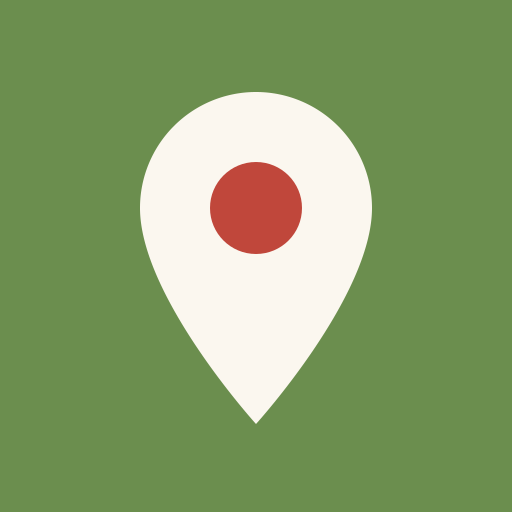
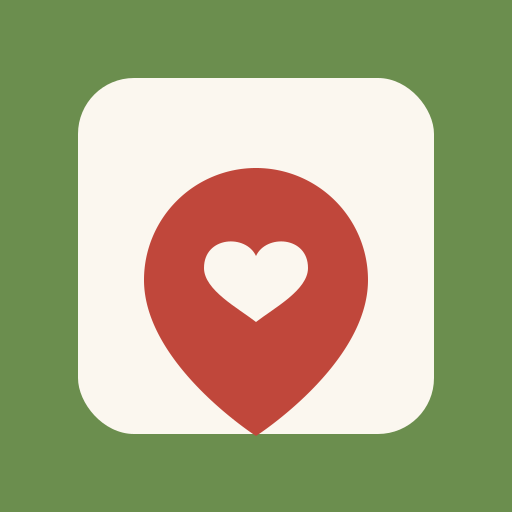
update

diff --git a/index.html b/index.html
@@ -2,118 +2,282 @@
 <html lang="en">
 <head>
 <meta charset="utf-8">
-<meta name="viewport" content="width=device-width, initial-scale=1, viewport-fit=cover">
-<title>Location Test</title>
+<meta name="viewport" content="width=device-width, initial-scale=1, viewport-fit=cover, maximum-scale=1">
+<title>The Hunt</title>
 <link rel="manifest" href="manifest.webmanifest">
 <meta name="theme-color" content="#6B8E4E">
 <meta name="mobile-web-app-capable" content="yes">
 <meta name="apple-mobile-web-app-capable" content="yes">
-<meta name="apple-mobile-web-app-title" content="Location Test">
+<meta name="apple-mobile-web-app-title" content="The Hunt">
 <link rel="apple-touch-icon" href="apple-touch-icon.png">
 <link rel="preconnect" href="https://fonts.googleapis.com">
 <link rel="preconnect" href="https://fonts.gstatic.com" crossorigin>
 <link href="https://fonts.googleapis.com/css2?family=Fraunces:opsz,wght@9..144,700;9..144,900&family=Nunito:wght@600;700;800&display=swap" rel="stylesheet">
 <style>
-  :root{--paper:#FBF7EF;--ink:#2E3A2E;--leaf:#6B8E4E;--berry:#C0473B;--line:#E3DCC9}
-  *{box-sizing:border-box;-webkit-tap-highlight-color:transparent}
+  :root{--paper:#FBF7EF;--ink:#2E3A2E;--leaf:#6B8E4E;--berry:#C0473B;--line:#E3DCC9;
+        --grey:#C4BDB0;--yellow:#C9A14A;--green:#6B8E4E;--white:#fff}
+  *{box-sizing:border-box;-webkit-tap-highlight-color:transparent;-webkit-user-select:none;user-select:none}
   html,body{margin:0;min-height:100%;background:var(--paper);color:var(--ink);
     font-family:"Nunito",system-ui,sans-serif}
-  body{display:flex;flex-direction:column;align-items:center;justify-content:center;
-    min-height:100dvh;gap:1.1rem;padding:1.5rem
-      calc(1.5rem + env(safe-area-inset-right)) calc(1.5rem + env(safe-area-inset-bottom)) calc(1.5rem + env(safe-area-inset-left));text-align:center}
-  h1{margin:0;font-family:"Fraunces",serif;font-weight:900;font-size:1.7rem}
-  .target{font-size:.8rem;opacity:.7;line-height:1.4;max-width:22rem}
-  .target b{font-variant-numeric:tabular-nums}
-  button{font:800 1.15rem "Nunito";color:var(--paper);background:var(--leaf);border:none;
-    border-radius:16px;padding:1.1rem 1.6rem;cursor:pointer;width:100%;max-width:22rem}
-  button:active{transform:scale(.98)}
-  button:disabled{opacity:.6}
-  .result{width:100%;max-width:22rem;min-height:8rem;background:#fff;border:1.5px solid var(--line);
-    border-radius:16px;padding:1.2rem;display:flex;flex-direction:column;gap:.5rem;justify-content:center}
-  .verdict{font-family:"Fraunces",serif;font-weight:900;font-size:1.5rem;line-height:1.1}
-  .verdict.yes{color:var(--leaf)} .verdict.no{color:var(--berry)} .verdict.warn{color:#B7791F}
-  .dist{font-size:2.6rem;font-weight:800;font-variant-numeric:tabular-nums;line-height:1}
-  .dist small{font-size:1rem;font-weight:700;opacity:.6}
-  .meta{font-size:.82rem;opacity:.78;line-height:1.5;font-variant-numeric:tabular-nums}
-  .note{font-size:.8rem;color:#B7791F;font-weight:700;line-height:1.4}
-  .muted{opacity:.55}
+  body{display:flex;flex-direction:column;align-items:center;min-height:100dvh;
+    padding:calc(.8rem + env(safe-area-inset-top)) 1rem calc(1rem + env(safe-area-inset-bottom));text-align:center}
+  .wrap{width:100%;max-width:460px;flex:1;display:flex;flex-direction:column}
+  h1{font-family:"Fraunces",serif;font-weight:900;margin:.2rem 0}
+  .step{font-size:.72rem;letter-spacing:.14em;text-transform:uppercase;color:var(--leaf);font-weight:800;margin:.3rem 0 .1rem}
+  .hint{font-size:.85rem;opacity:.75;margin:.1rem 0 .6rem}
+  button{font-family:"Nunito";font-weight:800;cursor:pointer;border:none}
+  .big{background:var(--leaf);color:var(--paper);border-radius:14px;padding:1rem 1.4rem;font-size:1.05rem;width:100%;max-width:22rem}
+  .big.ghost{background:#fff;color:var(--ink);border:1.5px solid var(--line)}
+  .big:active{transform:scale(.98)}
+
+  /* intro / reveal cards */
+  .center{flex:1;display:flex;flex-direction:column;align-items:center;justify-content:center;gap:1rem}
+  .card{background:#fff;border:1.5px solid var(--line);border-radius:18px;padding:1.4rem;width:100%}
+  .place{font-family:"Fraunces",serif;font-weight:900;font-size:1.7rem;margin:.2rem 0 .5rem;color:var(--ink)}
+  .note{font-size:1.05rem;line-height:1.5}
+  .row{display:flex;gap:.6rem;width:100%;max-width:22rem}
+  .row .big{flex:1}
+  .dist{font-size:.95rem;font-weight:800;min-height:1.2rem;color:var(--ink)}
+  .dist .warn{color:#B7791F}
+
+  /* wordle */
+  .wgrid{display:grid;grid-template-rows:repeat(6,1fr);gap:6px;margin:.4rem auto .6rem;width:min(86vw,310px)}
+  .wrow{display:grid;grid-template-columns:repeat(5,1fr);gap:6px}
+  .wt{aspect-ratio:1/1;display:flex;align-items:center;justify-content:center;font-weight:800;
+    font-size:1.5rem;border:2px solid var(--line);border-radius:8px;text-transform:uppercase;background:#fff;color:var(--ink)}
+  .wt.filled{border-color:#b9b1a2}
+  .wt.g{background:var(--green);border-color:var(--green);color:#fff}
+  .wt.y{background:var(--yellow);border-color:var(--yellow);color:#fff}
+  .wt.b{background:var(--grey);border-color:var(--grey);color:#fff}
+  .wt.pop{animation:pop .12s}
+  @keyframes pop{50%{transform:scale(1.08)}}
+  .shake{animation:shake .4s}
+  @keyframes shake{25%{transform:translateX(-6px)}75%{transform:translateX(6px)}}
+  .kb{display:flex;flex-direction:column;gap:6px;width:100%;max-width:30rem;margin:0 auto}
+  .kb .krow{display:flex;gap:5px;justify-content:center}
+  .key{flex:1;max-width:34px;height:52px;border-radius:7px;background:#E7E0D2;color:var(--ink);
+    font-weight:800;font-size:1rem;display:flex;align-items:center;justify-content:center}
+  .key.wide{max-width:58px;font-size:.72rem}
+  .key.g{background:var(--green);color:#fff}.key.y{background:var(--yellow);color:#fff}.key.b{background:var(--grey);color:#fff}
+  .key:active{transform:scale(.95)}
+
+  /* connections */
+  .cgrid{display:grid;grid-template-columns:repeat(4,1fr);gap:7px;margin:.4rem 0}
+  .ct{aspect-ratio:1.25/1;display:flex;align-items:center;justify-content:center;text-align:center;
+    background:#fff;border:1.5px solid var(--line);border-radius:10px;font-weight:800;font-size:.74rem;
+    padding:2px;text-transform:uppercase;letter-spacing:.02em}
+  .ct.sel{background:var(--ink);color:var(--paper);border-color:var(--ink)}
+  .ct:active{transform:scale(.96)}
+  .solved{grid-column:1/-1;border-radius:10px;color:#fff;padding:.55rem;margin-bottom:1px}
+  .solved .cat{font-weight:900;font-size:.8rem;letter-spacing:.06em}
+  .solved .ws{font-size:.74rem;opacity:.95;margin-top:1px}
+  .solved.spot{box-shadow:0 0 0 3px var(--ink);animation:glow 1.1s ease-in-out 2}
+  @keyframes glow{50%{box-shadow:0 0 0 6px rgba(46,58,46,.35)}}
+  .cmsg{min-height:1.2rem;font-weight:800;font-size:.9rem;margin:.2rem 0}
 </style>
 </head>
 <body>
-  <h1>Location Test</h1>
-  <div class="target">Target: <b>39&deg;02'13.3"N 94&deg;34'29.8"W</b><br>(39.036028, &minus;94.574944) &middot; within 10 m?</div>
-
-  <button id="checkBtn">Check my location</button>
-
-  <div class="result" id="result">
-    <div class="meta muted">Press the button to take a reading.</div>
-  </div>
+<div class="wrap" id="app"></div>
 
 <script>
-  const TARGET_LAT = 39.0360278;
-  const TARGET_LON = -94.5749444;
-  const RADIUS = 10; // meters
+const GAME = {"intro": "Happy [occasion]! Today is a little adventure, just for you. Solve the puzzle on each screen and it'll tell you where to go next. If you ever want a nudge, tap \u201cHow far am I?\u201d Ready?", "stops": [{"id": "tabletop", "type": "wordle", "answer": "BOARD", "place": "TableTop Game & Hobby", "address": "9156 Metcalf Ave, Overland Park", "lat": 38.9620698, "lng": -94.6700458, "reveal": "Your first stop is a place full of games. There's a copy of Dorfromantik with your name on it."}, {"id": "clay", "type": "connections", "groups": [{"name": "HOUSE", "color": "#6B8E4E", "words": ["BIRD", "DOLL", "FARM", "PAINTED"]}, {"name": "CLAY", "color": "#B5734A", "words": ["PIGEON", "BRICK", "COURT", "POT"]}, {"name": "POTTERY", "color": "#5B7DB1", "words": ["KILN", "GLAZE", "WHEEL", "POTTER"]}, {"name": "BIRDS", "color": "#8A6BA8", "words": ["ROBIN", "WREN", "JAY", "FINCH"]}], "spotlight": ["HOUSE", "CLAY"], "place": "House of Clay", "address": "7811 Marty St, Overland Park", "lat": 38.9871967, "lng": -94.6697807, "reveal": "HOUSE + CLAY. Go to House of Clay \u2014 a gift card is waiting so you can finally take that Driftwood Ceramics class you had to miss."}, {"id": "smp", "type": "wordle", "answer": "TRAIL", "placeholder": true, "place": "Shawnee Mission Park", "address": "Shawnee Mission Park, Shawnee", "lat": 38.9890705, "lng": -94.7979762, "reveal": "Time for a walk in the park. Open the bingo app and see how many you can find on the [TRAIL NAME] trail."}, {"id": "depot", "type": "wordle", "answer": "DEPOT", "place": "The Home Depot \u2013 Merriam", "address": "5700 Antioch Rd, Merriam", "lat": 39.0260432, "lng": -94.6894479, "reveal": "There's something waiting for you at pickup in Merriam."}, {"id": "boulevard", "type": "wordle", "answer": "YEAST", "place": "Boulevard Brewing", "address": "2534 Madison Ave, Kansas City", "lat": 39.0811973, "lng": -94.5954236, "reveal": "Enjoy the tour with your mom!"}, {"id": "lidias", "type": "wordle", "answer": "PASTA", "final": true, "place": "Lidia's", "address": "101 W 22nd St, Kansas City", "lat": 39.0877163, "lng": -94.5847287, "reveal": "Dinner at Lidia's \u2014 the pasta trio, of course. Happy [occasion]. I love you. \u2764"}]};
+const params = new URLSearchParams(location.search);
+const HOST = params.has('host');               // ?host=1 shows a skip control for setup
+if(params.has('reset')){ try{localStorage.removeItem('hunt-idx');}catch(e){} }
 
-  const btn = document.getElementById('checkBtn');
-  const result = document.getElementById('result');
+const app = document.getElementById('app');
+let idx = load();
+function load(){ try{return parseInt(localStorage.getItem('hunt-idx')||'-1',10);}catch(e){return -1;} }
+function save(){ try{localStorage.setItem('hunt-idx',String(idx));}catch(e){} }
 
-  function haversine(lat1, lon1, lat2, lon2){
-    const R = 6371000, rad = d => d * Math.PI / 180;
-    const dLat = rad(lat2 - lat1), dLon = rad(lon2 - lon1);
-    const a = Math.sin(dLat/2)**2 + Math.cos(rad(lat1))*Math.cos(rad(lat2))*Math.sin(dLon/2)**2;
-    return 2 * R * Math.asin(Math.sqrt(a));
+function mapsUrl(s){ return 'https://maps.apple.com/?q='+encodeURIComponent(s.place)+'&ll='+s.lat+','+s.lng; }
+function haversine(a,b,c,d){const R=6371000,r=x=>x*Math.PI/180;
+  const dLat=r(c-a),dLon=r(d-b);const x=Math.sin(dLat/2)**2+Math.cos(r(a))*Math.cos(r(c))*Math.sin(dLon/2)**2;
+  return 2*R*Math.asin(Math.sqrt(x));}
+function fmtDist(m){ if(m<160) return Math.round(m)+' m away';
+  const mi=m/1609.34; return (mi<10?mi.toFixed(1):Math.round(mi))+' mi away'; }
+
+/* ---------- screens ---------- */
+function render(){
+  if(idx<0){ intro(); return; }
+  const s = GAME.stops[idx];
+  if(s.type==='wordle') wordle(s);
+  else if(s.type==='connections') connections(s);
+}
+function intro(){
+  app.innerHTML='';
+  const c=el('div','center');
+  c.innerHTML='<div class="card"><div class="place">A little adventure</div><div class="note">'+GAME.intro+'</div></div>';
+  const b=el('button','big'); b.textContent='Begin';
+  b.onclick=()=>{ idx=0; save(); render(); };
+  c.appendChild(b); app.appendChild(c);
+}
+
+function reveal(s){
+  app.innerHTML='';
+  const c=el('div','center');
+  const card=el('div','card');
+  card.innerHTML='<div class="place">'+s.place+'</div><div class="note">'+s.reveal+'</div>'
+    +'<div style="font-size:.82rem;opacity:.6;margin-top:.5rem">'+s.address+'</div>';
+  c.appendChild(card);
+
+  const dist=el('div','dist');
+  const row=el('div','row');
+  const far=el('button','big ghost'); far.textContent='How far am I?';
+  far.onclick=()=>{ dist.textContent='Locating…';
+    if(!navigator.geolocation){dist.textContent='No location available.';return;}
+    navigator.geolocation.getCurrentPosition(p=>{
+      const m=haversine(p.coords.latitude,p.coords.longitude,s.lat,s.lng);
+      const acc=p.coords.accuracy;
+      dist.innerHTML='About '+fmtDist(m)+(acc>60?' <span class="warn">(rough fix)</span>':'');
+    },()=>{ dist.textContent='Could not get a location — try outdoors.'; },
+    {enableHighAccuracy:true,timeout:12000,maximumAge:0}); };
+  const mp=el('button','big'); mp.textContent='Open in Maps';
+  mp.onclick=()=>{ location.href=mapsUrl(s); };
+  row.appendChild(far); row.appendChild(mp);
+  c.appendChild(row); c.appendChild(dist);
+
+  if(s.final){
+    const done=el('div','note'); done.style.marginTop='.6rem'; done.style.opacity='.7'; done.textContent='— the end —';
+    c.appendChild(done);
+  }else{
+    const nx=el('button','big'); nx.style.maxWidth='22rem'; nx.textContent="I'm here — next puzzle";
+    nx.onclick=()=>{ idx++; save(); render(); };
+    c.appendChild(nx);
   }
-  const fmt = m => m < 100 ? m.toFixed(1) : Math.round(m).toString();
+  app.appendChild(c);
+  if(HOST) addHostBar();
+}
 
-  function show(html){ result.innerHTML = html; }
+/* ---------- WORDLE ---------- */
+function wordle(s){
+  const answer=s.answer.toUpperCase(); const N=answer.length;
+  let row=0, cur='';
+  const guesses=[];
+  app.innerHTML='';
+  app.appendChild(stepLabel());
+  const h=el('div','hint'); h.textContent=N+' letters'; app.appendChild(h);
+  const grid=el('div','wgrid'); grid.style.gridTemplateColumns='';
+  const rows=[];
+  for(let r=0;r<6;r++){ const rr=el('div','wrow'); rr.style.gridTemplateColumns='repeat('+N+',1fr)';
+    const cells=[]; for(let i=0;i<N;i++){const t=el('div','wt'); rr.appendChild(t); cells.push(t);}
+    rows.push(cells); grid.appendChild(rr); }
+  grid.style.width='min(86vw,'+(N*62)+'px)';
+  app.appendChild(grid);
+  const kb=buildKeyboard(onKey); app.appendChild(kb.node);
 
-  btn.addEventListener('click', () => {
-    if(!('geolocation' in navigator)){
-      show('<div class="verdict no">No geolocation</div><div class="meta">This browser can\'t provide location.</div>');
-      return;
+  function draw(){ for(let i=0;i<N;i++){const t=rows[row][i]; t.textContent=cur[i]||''; t.classList.toggle('filled',!!cur[i]); } }
+  function onKey(k){
+    if(k==='ENTER'){ submit(); return; }
+    if(k==='DEL'){ cur=cur.slice(0,-1); draw(); return; }
+    if(cur.length<N && /^[A-Z]$/.test(k)){ cur+=k; draw();
+      const t=rows[row][cur.length-1]; t.classList.add('pop'); setTimeout(()=>t.classList.remove('pop'),120); }
+  }
+  function score(g){
+    const res=Array(N).fill('b'); const counts={};
+    for(const ch of answer) counts[ch]=(counts[ch]||0)+1;
+    for(let i=0;i<N;i++){ if(g[i]===answer[i]){res[i]='g';counts[g[i]]--;} }
+    for(let i=0;i<N;i++){ if(res[i]==='g')continue; if(counts[g[i]]>0){res[i]='y';counts[g[i]]--;} }
+    return res;
+  }
+  function submit(){
+    if(cur.length<N){ rows[row].forEach(t=>t.parentNode.classList.add('shake'));
+      setTimeout(()=>rows[row][0].parentNode.classList.remove('shake'),400); return; }
+    const g=cur; const res=score(g);
+    for(let i=0;i<N;i++){ rows[row][i].classList.add(res[i]); kb.color(g[i],res[i]); }
+    guesses.push(g);
+    if(g===answer){ setTimeout(()=>reveal(s),500); return; }
+    row++; cur='';
+    if(row>=6){ // gentle: show answer, then proceed
+      const h2=el('div','hint'); h2.innerHTML='The word was <b>'+answer+'</b>.'; app.insertBefore(h2,grid.nextSibling);
+      setTimeout(()=>reveal(s),1400);
     }
-    btn.disabled = true;
-    show('<div class="meta muted">Locating&hellip; (point at open sky for the best fix)</div>');
-    navigator.geolocation.getCurrentPosition(pos => {
-      btn.disabled = false;
-      const { latitude, longitude, accuracy } = pos.coords;
-      const dist = haversine(latitude, longitude, TARGET_LAT, TARGET_LON);
-      const inside = dist <= RADIUS;
-      // If the GPS error bar is bigger than the radius, a yes/no isn't trustworthy.
-      const fuzzy = accuracy > RADIUS;
-
-      let verdict;
-      if (inside && !fuzzy) verdict = '<div class="verdict yes">Within 10 m &check;</div>';
-      else if (inside && fuzzy) verdict = '<div class="verdict warn">Maybe &mdash; reads inside, but fix is fuzzy</div>';
-      else verdict = '<div class="verdict no">Not within 10 m</div>';
-
-      const note = fuzzy
-        ? '<div class="note">GPS accuracy is &plusmn;' + Math.round(accuracy) +
-          ' m, larger than the 10 m target, so this result isn\'t reliable yet. Move to open sky and try again.</div>'
-        : '';
-
-      show(
-        verdict +
-        '<div class="dist">' + fmt(dist) + '<small> m away</small></div>' +
-        note +
-        '<div class="meta">GPS accuracy: &plusmn;' + Math.round(accuracy) + ' m<br>' +
-        'You: ' + latitude.toFixed(6) + ', ' + longitude.toFixed(6) + '<br>' +
-        'Time: ' + new Date().toLocaleTimeString() + '</div>'
-      );
-    }, err => {
-      btn.disabled = false;
-      const msgs = {
-        1: 'Permission denied. Allow location for Safari in Settings &rarr; Privacy &amp; Security &rarr; Location Services, and for this site.',
-        2: 'Position unavailable right now. Try again, ideally outdoors.',
-        3: 'Timed out getting a fix. Try again in the open.'
-      };
-      show('<div class="verdict no">No reading</div><div class="meta">' + (msgs[err.code] || err.message) + '</div>');
-    }, { enableHighAccuracy: true, timeout: 12000, maximumAge: 0 });
-  });
-
-  if ('serviceWorker' in navigator){
-    try { navigator.serviceWorker.register('sw.js'); } catch(e){}
   }
+  if(HOST) addHostBar();
+}
+
+function buildKeyboard(handler){
+  const rowsDef=[ [...'QWERTYUIOP'], [...'ASDFGHJKL'], ['ENTER',...'ZXCVBNM','DEL'] ];
+  const node=el('div','kb'); const keyEls={};
+  rowsDef.forEach(tokens=>{ const r=el('div','krow');
+    tokens.forEach(tok=>{
+      const k=el('button','key'+((tok==='ENTER'||tok==='DEL')?' wide':''));
+      k.textContent= tok==='DEL'?'⌫':tok;
+      k.onclick=()=>handler(tok);
+      if(tok.length===1) keyEls[tok]=k;
+      r.appendChild(k);
+    });
+    node.appendChild(r);
+  });
+  function color(ch,res){ const k=keyEls[ch]; if(!k)return;
+    if(k.classList.contains('g'))return;
+    if(res==='g'){k.classList.remove('y','b');k.classList.add('g');}
+    else if(res==='y'&&!k.classList.contains('g')){k.classList.remove('b');k.classList.add('y');}
+    else if(res==='b'&&!k.classList.contains('g')&&!k.classList.contains('y')){k.classList.add('b');} }
+  return {node,color};
+}
+
+/* ---------- CONNECTIONS ---------- */
+function connections(s){
+  app.innerHTML='';
+  app.appendChild(stepLabel());
+  const h=el('div','hint'); h.textContent='Make four groups of four'; app.appendChild(h);
+  const solvedWrap=el('div'); app.appendChild(solvedWrap);
+  const grid=el('div','cgrid'); app.appendChild(grid);
+  const msg=el('div','cmsg'); app.appendChild(msg);
+  const row=el('div','row'); row.style.maxWidth='22rem';
+  const sub=el('button','big'); sub.textContent='Submit'; sub.disabled=true; sub.style.opacity=.5;
+  const clr=el('button','big ghost'); clr.textContent='Clear';
+  row.appendChild(clr); row.appendChild(sub); app.appendChild(row);
+
+  let words=[]; s.groups.forEach(g=>g.words.forEach(w=>words.push({w,g})));
+  words=shuffle(words);
+  let selected=new Set(); let solved=[];
+  function paint(){
+    grid.innerHTML='';
+    words.forEach(o=>{ const t=el('div','ct'); t.textContent=o.w;
+      if(selected.has(o.w))t.classList.add('sel');
+      t.onclick=()=>{ if(selected.has(o.w))selected.delete(o.w);
+        else if(selected.size<4)selected.add(o.w); paint(); };
+      grid.appendChild(t); });
+    sub.disabled=selected.size!==4; sub.style.opacity=selected.size===4?1:.5;
+  }
+  function drawSolved(){ solvedWrap.innerHTML='';
+    solved.forEach(g=>{ const d=el('div','solved'); d.style.background=g.color;
+      if(s.spotlight && s.spotlight.includes(g.name)) d.classList.add('spot');
+      d.innerHTML='<div class="cat">'+g.name+'</div><div class="ws">'+g.words.join('  ·  ')+'</div>';
+      solvedWrap.appendChild(d); }); }
+  clr.onclick=()=>{ selected.clear(); paint(); };
+  sub.onclick=()=>{
+    const sel=[...selected];
+    const hit=s.groups.find(g=>g.words.length===4 && sel.every(w=>g.words.includes(w)) && !solved.includes(g));
+    if(hit){
+      solved.push(hit);
+      words=words.filter(o=>!hit.words.includes(o.w));
+      selected.clear(); msg.textContent=''; drawSolved(); paint();
+      if(solved.length===s.groups.length){ msg.textContent=''; setTimeout(()=>reveal(s),700); }
+    }else{
+      let near=false;
+      for(const g of s.groups){ if(solved.includes(g))continue;
+        const overlap=sel.filter(w=>g.words.includes(w)).length; if(overlap===3)near=true; }
+      msg.textContent=near?'So close — one away!':'Not quite — try again.';
+      grid.classList.add('shake'); setTimeout(()=>grid.classList.remove('shake'),400);
+    }
+  };
+  paint();
+  if(HOST) addHostBar();
+}
+
+/* ---------- helpers ---------- */
+function el(tag,cls){const e=document.createElement(tag); if(cls)e.className=cls; return e;}
+function stepLabel(){const d=el('div','step'); d.textContent='Stop '+(idx+1)+' of '+GAME.stops.length; return d;}
+function shuffle(a){a=a.slice();for(let i=a.length-1;i>0;i--){const j=Math.floor(Math.random()*(i+1));[a[i],a[j]]=[a[j],a[i]];}return a;}
+function addHostBar(){ const b=el('button'); b.textContent='skip ▸'; b.style.cssText=
+  'position:fixed;bottom:6px;right:6px;font-size:.7rem;opacity:.4;background:#0000;color:#2E3A2E;border:1px solid #ccc;border-radius:6px;padding:2px 6px;z-index:99';
+  b.onclick=()=>{ if(idx<GAME.stops.length-1){idx++;save();render();} }; document.body.appendChild(b); }
+
+if('serviceWorker' in navigator){ try{navigator.serviceWorker.register('sw.js');}catch(e){} }
+render();
 </script>
 </body>
 </html>

diff --git a/sw.js b/sw.js
@@ -1,6 +1,5 @@
-const CACHE='geo-test-v1';
+const CACHE='hunt-v1';
 const ASSETS=['./','./index.html','./manifest.webmanifest','./icon-192.png','./icon-512.png','./apple-touch-icon.png'];
 self.addEventListener('install',e=>{e.waitUntil(caches.open(CACHE).then(c=>c.addAll(ASSETS)).then(()=>self.skipWaiting()));});
 self.addEventListener('activate',e=>{e.waitUntil(caches.keys().then(k=>Promise.all(k.filter(x=>x!==CACHE).map(x=>caches.delete(x)))).then(()=>self.clients.claim()));});
-self.addEventListener('fetch',e=>{if(e.request.method!=='GET')return;
-  e.respondWith(caches.match(e.request).then(h=>h||fetch(e.request)).catch(()=>caches.match('./index.html')));});
+self.addEventListener('fetch',e=>{if(e.request.method!=='GET')return;e.respondWith(caches.match(e.request).then(h=>h||fetch(e.request)).catch(()=>caches.match('./index.html')));});
